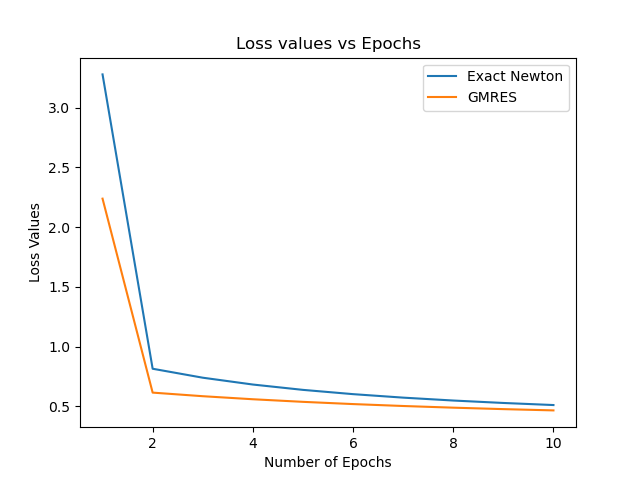
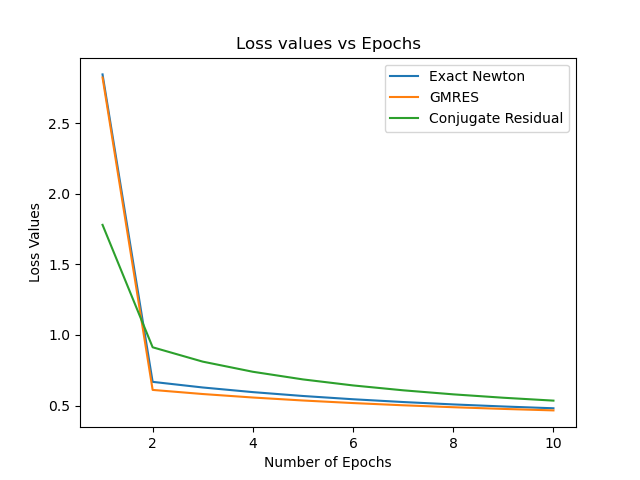
add conjugate residual method

diff --git a/convex_model/a9a_analysis.py b/convex_model/a9a_analysis.py
@@ -8,6 +8,7 @@ import hessian
 import scipy
 import time 
 import os
+import krylov
             
 class A9A_Analysis:
 
@@ -131,12 +132,33 @@ class A9A_Analysis:
         end = time.time()
         return w, loss_values, end-start
 
+
     def compute_gradient(self, w, is_train=True):
         if is_train:
             return (torch.sigmoid(-self.y*((self.X.T)@w))*(-self.y*self.X)).mean(1) + (self.regularization * w)
         else:
             return (torch.sigmoid (-self.y_test * ((self.X_train.T) @ w)) * 
             (-self.y_test * self.X_test)).mean(1) + (self.regularization * w)
+
+
+    def conjugate_residual(self, num_epochs):
+        w = torch.rand(self.X.shape[0])
+        loss_values = {}
+
+        start = time.time()
+        for epoch in range(num_epochs):
+            gradient = self.compute_gradient(w)
+            hessian_matrix = self.form_hessian(w)
+
+            update = krylov.conjugate_residual(hessian_matrix, gradient)
+            alpha = self.backtrack_line_search(w, update)
+
+            w = w - (alpha * update)
+            loss_values[epoch + 1] = self.l2_regularized_logistic_regression_loss(w).item()
+            #print(self.test_model(w))
+        end = time.time()
+
+        return w, loss_values, end-start
 
 
     def gmres(self, num_epochs):
@@ -173,7 +195,9 @@ class A9A_Analysis:
             return accuracy
 
     def plot_losses_all_newton_methods(self, filename, num_epochs):
-        newton_methods = {'Exact Newton': self.newton_method_exact, 'GMRES': self.gmres}
+        newton_methods = {'Exact Newton': self.newton_method_exact, 'GMRES': 
+        self.gmres, 'Conjugate Residual': self.conjugate_residual}
+
         for newton_method_name, newton_method in newton_methods.items():
             _, loss_vals, _ = newton_method(num_epochs)
             epochs = [i for i in range(1, num_epochs + 1)]
@@ -215,8 +239,8 @@ if __name__ == "__main__":
 
     a9a = A9A_Analysis(a9a_dataset_train, labels_train, a9a_dataset_test, labels_test)
     
-    a9a.plot_losses_all_newton_methods(None, 10)
+    a9a.plot_losses_all_newton_methods('loss_vals.png', 10)
 
-    # w, time = a9a.gmres(10)
+    #_ = a9a.conjugate_residual(10)
     # print(time)
     #print(a9a.test_model(w, False))

diff --git a/convex_model/krylov.py b/convex_model/krylov.py
@@ -1,6 +1,26 @@
 import numpy as np 
 import torch
 
+def conjugate_residual(A, b):
+    tolerance = 10**-6
+    x = torch.rand(b.shape[0])
+    residual = b - (A @ x)
+    p = residual 
+
+    while True:
+        alpha = (residual.T @ A @ residual)/((A @ p).T @ (A @ p))
+        new_x = x + (alpha * p) 
+        if torch.norm(new_x - x) <= tolerance:
+            return new_x 
+        
+        new_r = residual - (alpha * (A @ p))
+        beta = (new_r.T @ A @ new_r)/(residual.T @ A @ residual)
+        new_p = new_r + (beta * p)
+
+        residual = new_r 
+        p = new_p
+        x = new_x
+
 
 def biconjugate_gradient_stable_hessian_vp(A, b):
     num_iter = 6 
